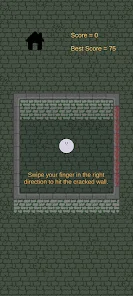
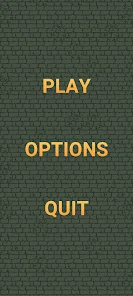
Fixes

diff --git a/JS/view-project.js b/JS/view-project.js
@@ -3,24 +3,69 @@ const projectDetails = {
     category: "Game Development",
     title: "Fluency Cards",
     date: "2024",
+    mainMedia: "../Resources/Images/Projects/FluencyCards.webp",
     description: ["Fluency Cards is a Unity game designed to make English practice feel quick, social, and approachable.", "The Uno-style format turns vocabulary and language challenges into a playful session that can be picked up whenever there is a few minutes to spare."],
     skills: ["Unity", "C#", "Game Design"],
-    media: [1, 2, 3].map((number) => ({ type: "image", src: "../Resources/Images/Projects/FluencyCards.webp", alt: `Fluency Cards preview ${number}` })),
+    media: [
+            {
+              type: "image",
+              src: "../Resources/Images/Projects/FluencyCards/FluencyCards-01.webp",
+              alt: "FluencyCards-01.webp"
+            },
+            {
+              type: "image",
+              src: "../Resources/Images/Projects/FluencyCards/FluencyCards-02.webp",
+              alt: "FluencyCards-02.webp"
+            },
+            {
+              type: "image",
+              src: "../Resources/Images/Projects/FluencyCards/FluencyCards-03.webp",
+              alt: "FluencyCards-03.webp"
+            },
+            {
+              type: "image",
+              src: "../Resources/Images/Projects/FluencyCards/FluencyCards-04.webp",
+              alt: "FluencyCards-04.webp"
+            }
+          ],
     links: []
   },
   jeflen: {
     category: "Game Development",
     title: "Jeflen",
     date: "2024",
+    mainMedia: "../Resources/Images/Projects/Jeflen.webp",
     description: ["Jeflen is a compact arcade game built with Unity for short, repeatable play sessions.", "Its simple rules leave room to focus on movement, timing, and the small satisfaction of improving a score run by run."],
     skills: ["Unity", "C#", "Game Development"],
-    media: [1, 2, 3].map((number) => ({ type: "image", src: "../Resources/Images/Projects/Jeflen.webp", alt: `Jeflen preview ${number}` })),
+    media: [
+            {
+              type: "image",
+              src: "../Resources/Images/Projects/Jeflen/Jeflen-01.webp",
+              alt: "Jeflen-01.webp"
+            },
+            {
+              type: "image",
+              src: "../Resources/Images/Projects/Jeflen/Jeflen-02.webp",
+              alt: "Jeflen-02.webp"
+            },
+            {
+              type: "image",
+              src: "../Resources/Images/Projects/Jeflen/Jeflen-03.webp",
+              alt: "Jeflen-03.webp"
+            },
+            {
+              type: "image",
+              src: "../Resources/Images/Projects/Jeflen/Jeflen-04.webp",
+              alt: "Jeflen-04.webp"
+            }
+          ],
     links: []
   },
   "magnet-chaos": {
     category: "Game Development",
     title: "Magnet Chaos",
     date: "2023",
+    mainMedia: "../Resources/Images/Projects/MagnetChaos.webp",
     description: ["Magnet Chaos is an original desktop game made with C++ and SFML without relying on a game engine.", "The player controls a magnet through a hostile arena, making careful positioning and quick decisions to destroy as many robots as possible before being overwhelmed."],
     skills: ["C++", "SFML", "Game Programming"],
     media: [1, 2, 3].map((number) => ({ type: "image", src: "../Resources/Images/Projects/MagnetChaos.webp", alt: `Magnet Chaos preview ${number}` })),
@@ -30,6 +75,7 @@ const projectDetails = {
     category: "Game Development",
     title: "Asteroids",
     date: "2022",
+    mainMedia: "../Resources/Images/Projects/Asteroids.webp",
     description: ["Asteroids is a desktop take on the classic arcade formula, built from the ground up with C++ and SFML.", "The goal is straightforward: pilot the spaceship, clear incoming asteroids, and keep the run alive for as long as possible."],
     skills: ["C++", "SFML", "Object-Oriented Programming"],
     media: [1, 2, 3].map((number) => ({ type: "image", src: "../Resources/Images/Projects/Asteroids.webp", alt: `Asteroids preview ${number}` })),
@@ -39,6 +85,7 @@ const projectDetails = {
     category: "Embedded Systems",
     title: "Water Level Tracker",
     date: "2026",
+    mainMedia: "../Resources/Images/Projects/WaterLevelTracker.webp",
     description: ["Water Level Tracker is an Arduino project for monitoring the amount of water in a tank.", "It is built around a simple measurement workflow that keeps the reading useful even when the tank dimensions change."],
     skills: ["Arduino", "C++", "Embedded Systems"],
     media: [1, 2, 3].map((number) => ({ type: "image", src: "../Resources/Images/Projects/WaterLevelTracker.webp", alt: `Water Level Tracker preview ${number}` })),
@@ -48,6 +95,7 @@ const projectDetails = {
     category: "Web Development",
     title: "Blood Seeker",
     date: "2026",
+    mainMedia: "../Resources/Images/Projects/BloodSeeker.webp",
     description: ["Blood Seeker is a group project focused on making blood donations and urgent requests easier to discover.", "My contribution centered on the backend, where the application rules and data flow connect donors with people who need help."],
     skills: ["Backend Development", "APIs", "Database Design"],
     media: [1, 2, 3].map((number) => ({ type: "image", src: "../Resources/Images/Projects/BloodSeeker.webp", alt: `Blood Seeker preview ${number}` })),
@@ -57,6 +105,7 @@ const projectDetails = {
     category: "Web Development",
     title: "Fluency Test Prep",
     date: "2026",
+    mainMedia: "../Resources/Images/Projects/FluencyTestPrep.webp",
     description: ["Fluency Test Prep is a learning website for students preparing for English tests and teachers following their progress.", "I worked on the frontend experience, turning the study and tracking workflows into clear, responsive interfaces for both audiences."],
     skills: ["Frontend Development", "JavaScript", "Responsive Design"],
     media: [1, 2, 3].map((number) => ({ type: "image", src: "../Resources/Images/Projects/FluencyTestPrep.webp", alt: `Fluency Test Prep preview ${number}` })),
@@ -87,7 +136,7 @@ function renderProject(project) {
         <h1><span class="gradient-text">${project.title}</span></h1>
       </div>
       <div class="project-cover-wrap">
-        ${mediaMarkup(project.media[0])}
+        ${mediaMarkup({ type: "image", src: project.mainMedia, alt: `${project.title} main image` })}
         <span class="project-year">${project.date}</span>
       </div>
     </header>

diff --git a/CSS/view-project.css b/CSS/view-project.css
@@ -48,7 +48,7 @@ main { margin: 0 auto; width: 92vw; max-width: none; min-width: 0; overflow-x: c
 .project-eyebrow { margin-bottom: 0.5rem; color: var(--text-muted); font-size: clamp(1.25rem, 2.2vw, 1.75rem); font-weight: 600; letter-spacing: 0; }
 .project-title-block { padding-top: 1.25rem; }
 .project-cover-wrap { position: relative; width: 220px; height: 150px; justify-self: end; overflow: hidden; border-radius: 14px; animation: mediaReveal 900ms 300ms cubic-bezier(0.22, 1, 0.36, 1) both; }
-.project-cover-wrap img, .project-cover-wrap video { display: block; width: 100%; height: 100%; object-fit: cover; }
+.project-cover-wrap img, .project-cover-wrap video { display: block; width: 100%; height: 100%; object-fit: contain; object-position: center; }
 .project-year { position: absolute; top: 0.7rem; right: 0.7rem; padding: 0.3rem 0.6rem; border: 1px solid var(--card-border-strong); border-radius: 6px; background: rgba(8, 35, 72, 0.72); box-shadow: 0 0 16px rgba(56, 189, 248, 0.2); color: var(--text-main); font-size: 0.76rem; font-weight: 700; }
 
 .project-description { width: 100%; max-width: 100%; overflow: hidden; }
@@ -61,7 +61,7 @@ main { margin: 0 auto; width: 92vw; max-width: none; min-width: 0; overflow-x: c
 .media-slide { display: flex; align-items: center; justify-content: center; flex: 0 0 clamp(140px, 22vw, 280px); height: clamp(140px, 22vw, 280px); overflow: hidden; border: 1px solid var(--card-border); border-radius: 12px; background: transparent; opacity: 0.38; transform: scale(0.82); cursor: pointer; transition: opacity 0.38s ease, transform 0.38s ease, border-color 0.2s ease, box-shadow 0.2s ease; }
 .media-slide.is-current { opacity: 1; transform: scale(1); }
 .media-slide:hover { border-color: var(--accent-cyan-strong); box-shadow: 0 0 18px var(--accent-cyan-glow); }
-.media-slide img, .media-slide video { display: block; width: 100%; height: 100%; object-fit: cover; }
+.media-slide img, .media-slide video { display: block; width: 100%; height: 100%; object-fit: contain; object-position: center; }
 .media-slide img { border-radius: 12px; cursor: pointer; }
 .media-nav { position: absolute; top: 50%; z-index: 3; width: 40px; height: 40px; border: 1px solid var(--card-border-strong); border-radius: 999px; background: var(--bg-surface-strong); color: var(--text-main); font-size: 1.2rem; cursor: pointer; transform: translateY(-50%); transition: background 0.2s ease, transform 0.2s ease; }
 .media-nav:hover { background: var(--accent-cyan-glow); transform: translateY(-50%) scale(1.05); }
